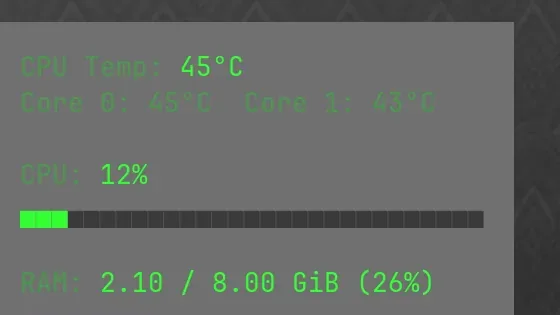
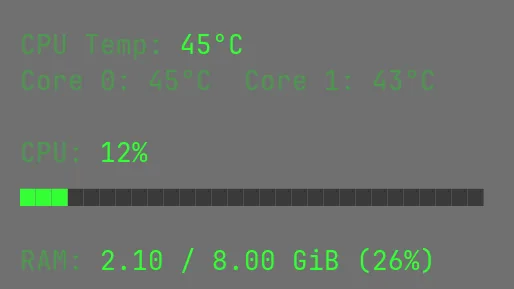
fix(web): screenshot sway-desktop-stats jen s widgetem, bez plochy
Obrázek widgetu a karta ořezané na samotný panel (dřív byla kolem vidět tapeta); rozměry v HTML a apps.yml upraveny.

diff --git a/apps/sway-desktop-stats.html b/apps/sway-desktop-stats.html
@@ -35,7 +35,7 @@ next: [live-m, repo-doctor]
                 <span class="shot-frame__title">desktop-stats</span>
                 <span class="shot-frame__badge">bottom layer</span>
               </div>
-              <img src="/assets/apps/sway-desktop-stats/widget.webp" alt="Sway Desktop Stats panel showing CPU temperature, memory, disk, battery, network and Docker information" width="560" height="1260">
+              <img src="/assets/apps/sway-desktop-stats/widget.webp" alt="Sway Desktop Stats panel showing CPU temperature, memory, disk, battery, network and Docker information" width="514" height="1204">
             </div>
             <figcaption>One panel, every signal: thermals, load, battery, network, Docker and top processes.</figcaption>
           </figure>
@@ -126,7 +126,7 @@ next: [live-m, repo-doctor]
         </div>
         <div class="shots shots--single shots--sway">
                     <figure class="shot shot--portrait reveal">
-            <img src="/assets/apps/sway-desktop-stats/widget.webp" alt="Full Sway Desktop Stats waybar panel with temperatures, usage bars, network, Docker and top processes" width="560" height="1260" loading="lazy">
+            <img src="/assets/apps/sway-desktop-stats/widget.webp" alt="Full Sway Desktop Stats waybar panel with temperatures, usage bars, network, Docker and top processes" width="514" height="1204" loading="lazy">
             <figcaption>CPU, memory, disk, battery, network, Docker and top processes in one panel.</figcaption>
           </figure>
         </div>
